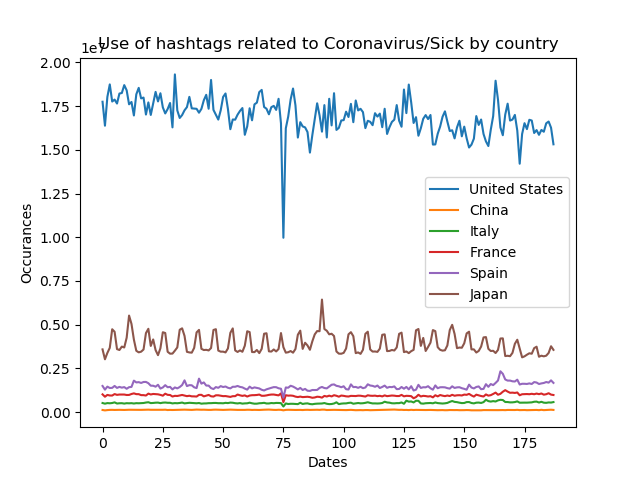
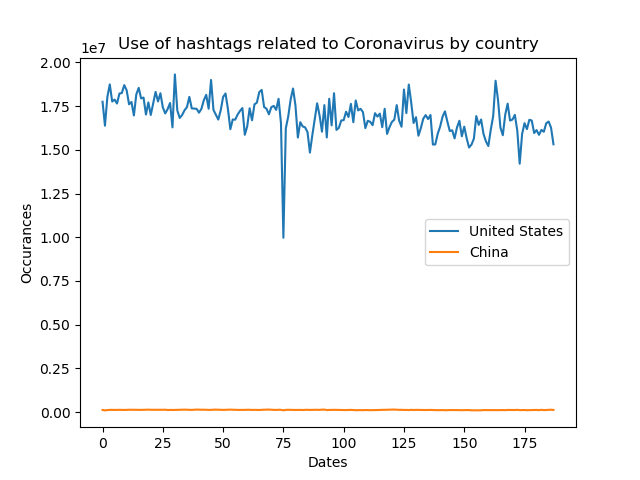
test

diff --git a/src/graphy.py b/src/graphy.py
@@ -45,15 +45,14 @@ for path in args.input_paths:
                 JP.append(v)
     dates.append(date)
 
-
 plt.plot(US, label = 'United States')
 plt.plot(CN, label = 'China')
-plt.plot(IT, label = 'Italy')
-plt.plot(FR, label = 'France')
-plt.plot(ES, label = 'Spain')
-plt.plot(JP, label = 'Japan')
+#plt.plot(IT, label = 'Italy')
+#plt.plot(FR, label = 'France')
+#plt.plot(ES, label = 'Spain')
+#plt.plot(JP, label = 'Japan')
 
-plt.title("Use of hashtags related to Coronavirus/Sick by country")
+plt.title("Use of hashtags related to Coronavirus by country")
 plt.xlabel("Dates")
 plt.ylabel("Occurances")
 #z = np.array(len(dates))
